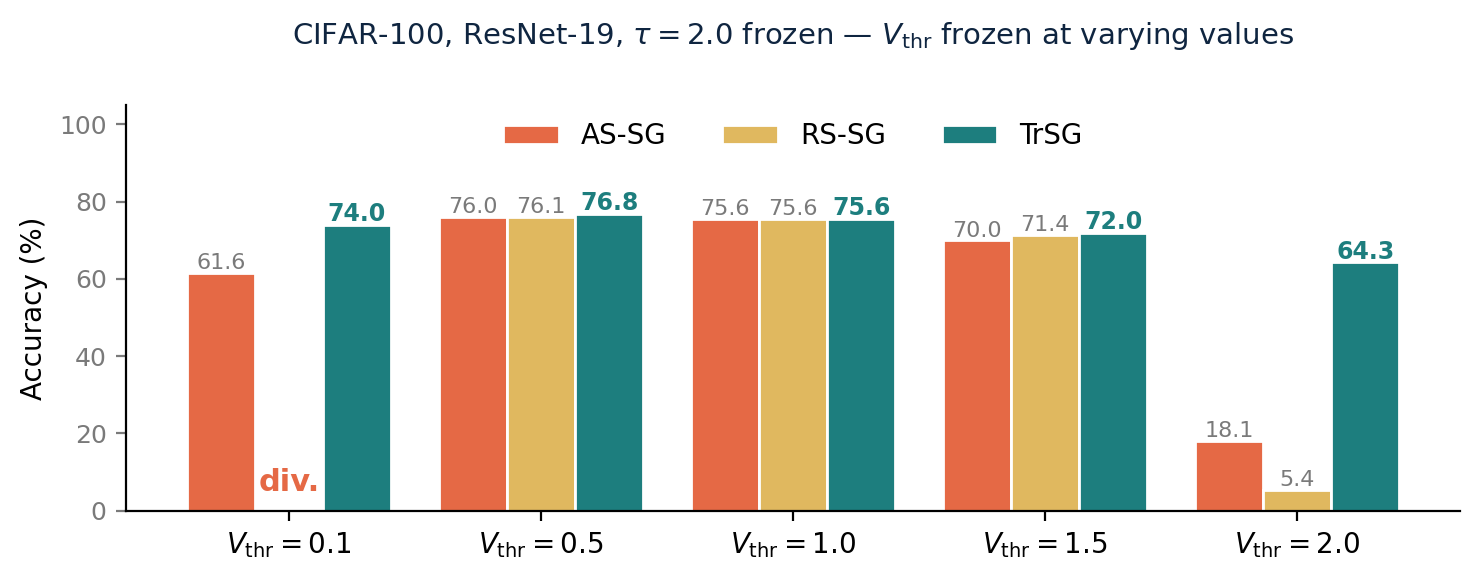
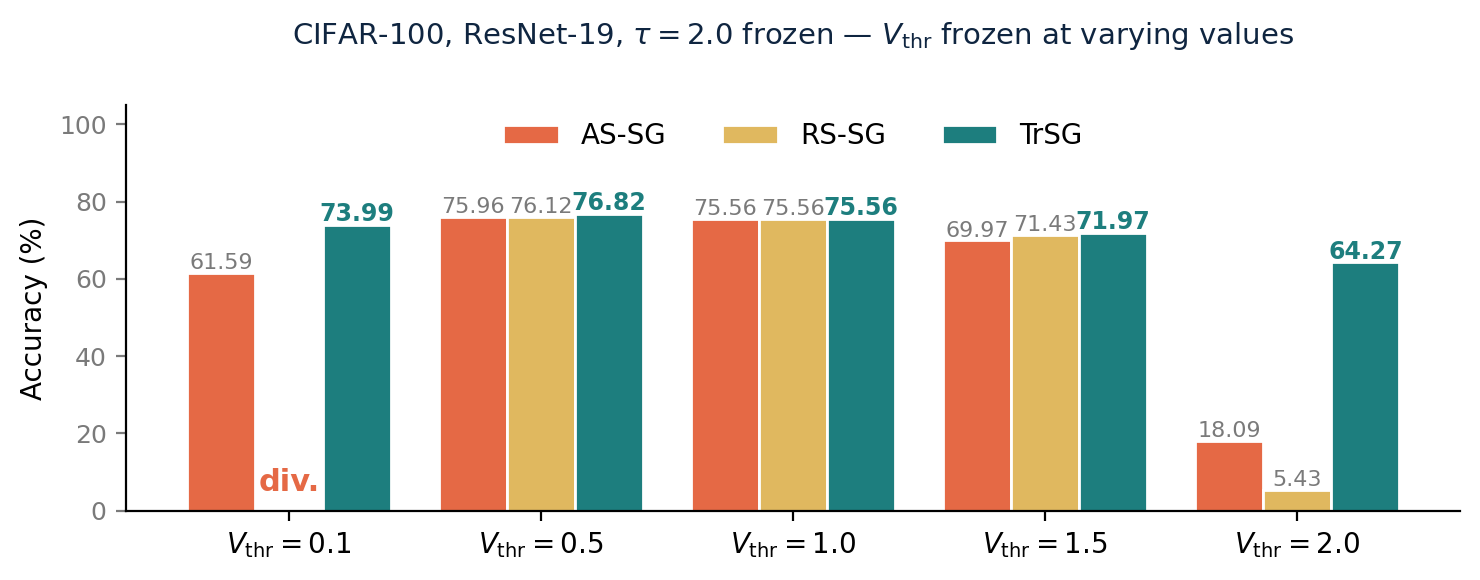
S16 chart: bar value labels to 2 decimals, matching the paper table
Paper supplementary tab:no-training reports values to two decimals
(61.59, 75.96, 75.56, 69.97, 18.09 for AS-SG soft, etc.).  The chart
was rounding to 1 decimal, losing precision.  All three rows
(AS-SG, RS-SG, TrSG) now use ".2f" format, so every bar matches the
paper exactly.

https://claude.ai/code/session_01KsoZVcMJ4zaC3YipGd4nvb

diff --git a/gen_ppt_visuals.py b/gen_ppt_visuals.py
@@ -327,15 +327,15 @@ for xi, val in zip(x, rs_vals):
         ax.text(xi, 5, "div.", ha="center", color=CORAL,
                 fontsize=11, fontweight="bold")
 for bar, val in zip(b3, tr_vals):
-    ax.text(bar.get_x() + bar.get_width()/2, val + 1, f"{val:.1f}",
+    ax.text(bar.get_x() + bar.get_width()/2, val + 1, f"{val:.2f}",
             ha="center", color=TEAL, fontsize=8.5, fontweight="bold")
 for bar, val in zip(b1, ax_vals):
     if not np.isnan(val):
-        ax.text(bar.get_x() + bar.get_width()/2, val + 1, f"{val:.1f}",
+        ax.text(bar.get_x() + bar.get_width()/2, val + 1, f"{val:.2f}",
                 ha="center", color=GRAY, fontsize=8)
 for bar, val in zip(b2, rs_vals):
     if not np.isnan(val):
-        ax.text(bar.get_x() + bar.get_width()/2, val + 1, f"{val:.1f}",
+        ax.text(bar.get_x() + bar.get_width()/2, val + 1, f"{val:.2f}",
                 ha="center", color=GRAY, fontsize=8)
 
 ax.set_xticks(x); ax.set_xticklabels([f"$V_{{\\rm thr}}={v}$" for v in v_thrs], fontsize=10)